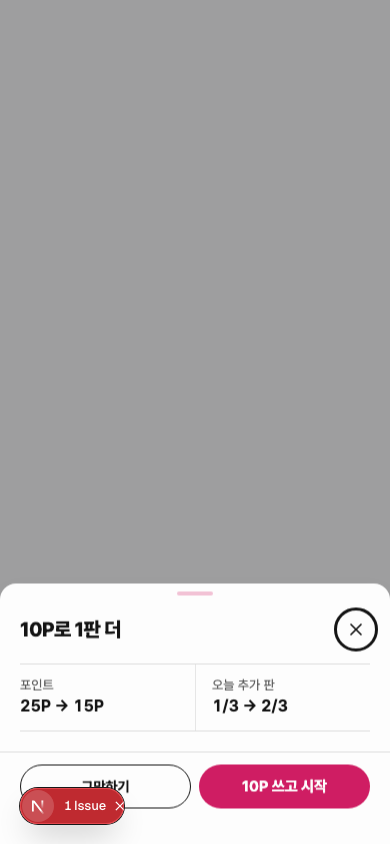
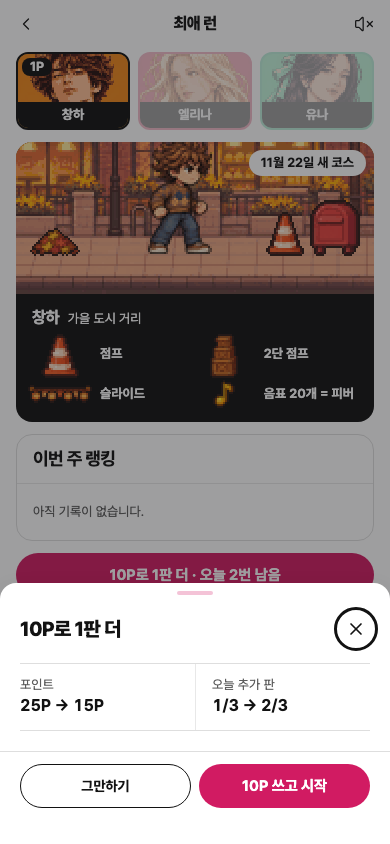
잔액이 부족하면 덕질 미션으로 안내하고 모든 알림 톤의 만료 검증

diff --git a/apps/web/app/chemi/games/run/copy.ts b/apps/web/app/chemi/games/run/copy.ts
@@ -22,7 +22,7 @@ const table: Record<AppLocale, readonly string[]> = {
     "{n}점", "{m}m · 음표 {n} · {c}연속 회피 · 피버 {f}회", "최고 기록 · 이전 {n}점", "이번 주 순위", "{n}위", "{n}계단", "새 칭호", "{n}점 벽 깨기",
     "{name} 친밀 +{n}", "{name} 방 보기", "다음에 뭐 할까?", "다시 하기 · 남은 판 {n}", "{cost}P로 1판 더 · 오늘 {n}번 남음", "오늘 판을 모두 썼어요", "친구에게 도전", "링크를 복사했어요", "케미로",
     "바로 위 {name}까지", "기록 확인 중", "다시 시도", "{cost}P로 1판 더", "포인트", "오늘 추가 판", "그만하기", "{cost}P 쓰고 시작",
-    "포인트가 {n}P 모자라요", "출석하고 포인트 받기", "내일 알려 줘", "내일 메일로 알려 드릴게요", "불러오지 못했습니다.", "도전 기록", "닫기", "{n}초", "지난주 {n}위", "판이 끝났어요", "최고 기록", "{date} 새 코스"],
+    "포인트가 {n}P 모자라요", "덕질 미션에서 모으기", "내일 알려 줘", "내일 메일로 알려 드릴게요", "불러오지 못했습니다.", "도전 기록", "닫기", "{n}초", "지난주 {n}위", "판이 끝났어요", "최고 기록", "{date} 새 코스"],
   en: ["Favorite Run", "Back", "Sound", "Pause", "Changha", "Elina", "Yuna", "Autumn city street",
     "Jump", "Low things", "Double jump", "Tall things · pits", "Slide", "Overhead", "20 notes = Fever", "2× score for 7 s",
     "This week's ranking", "Full ranking", "me", "No records yet.", "{n} ran today", "Start with {name} · {n} runs left", "Sign in to start", "Start 1 trial run",
@@ -31,7 +31,7 @@ const table: Record<AppLocale, readonly string[]> = {
     "{n} pts", "{m} m · {n} notes · {c} dodges in a row · {f} fevers", "New best · was {n} pts", "This week's rank", "#{n}", "{n} places", "New title", "Broke {n} points",
     "{name} affinity +{n}", "See {name}'s room", "What next?", "Run again · {n} left", "1 more run for {cost}P · {n} left today", "You've used today's runs", "Challenge a friend", "Link copied", "Back to Chemi",
     "To pass {name}", "Checking the record", "Try again", "1 more run for {cost}P", "Points", "Extra runs today", "Not now", "Spend {cost}P and start",
-    "You're {n}P short", "Check in for points", "Remind me tomorrow", "We'll email you tomorrow", "Couldn't load.", "Record to beat", "Close", "{n} s", "Last week #{n}", "The run is over", "Best", "New course · {date}"],
+    "You're {n}P short", "Earn points in fan missions", "Remind me tomorrow", "We'll email you tomorrow", "Couldn't load.", "Record to beat", "Close", "{n} s", "Last week #{n}", "The run is over", "Best", "New course · {date}"],
   ja: ["推しラン", "戻る", "サウンド", "一時停止", "チャンハ", "エリナ", "ユナ", "秋の街角",
     "ジャンプ", "低いもの", "2段ジャンプ", "高いもの・穴", "スライド", "頭上", "音符20個 = フィーバー", "7秒間スコア2倍",
     "今週のランキング", "全体順位", "自分", "まだ記録がありません。", "今日{n}人が走りました", "{name}でスタート・残り{n}回", "ログインして始める", "お試し1回を始める",
@@ -40,7 +40,7 @@ const table: Record<AppLocale, readonly string[]> = {
     "{n}点", "{m}m・音符{n}・{c}連続回避・フィーバー{f}回", "自己ベスト・前回{n}点", "今週の順位", "{n}位", "{n}ランク", "新しい称号", "{n}点の壁突破",
     "{name} 親密 +{n}", "{name}の部屋を見る", "次はどうする?", "もう一度・残り{n}回", "{cost}Pでもう1回・今日あと{n}回", "今日の回数を使い切りました", "友だちに挑戦", "リンクをコピーしました", "ケミへ",
     "すぐ上の{name}まで", "記録を確認中", "再試行", "{cost}Pでもう1回", "ポイント", "今日の追加回数", "やめる", "{cost}P使って始める",
-    "{n}P足りません", "出席してポイントをもらう", "明日知らせて", "明日メールでお知らせします", "読み込めませんでした。", "挑戦記録", "閉じる", "{n}秒", "先週{n}位", "ランが終わりました", "ベスト", "{date}の新コース"],
+    "{n}P足りません", "推し活ミッションで貯める", "明日知らせて", "明日メールでお知らせします", "読み込めませんでした。", "挑戦記録", "閉じる", "{n}秒", "先週{n}位", "ランが終わりました", "ベスト", "{date}の新コース"],
   "zh-Hans": ["本命跑酷", "返回", "声音", "暂停", "Changha", "Elina", "Yuna", "秋日街道",
     "跳跃", "矮的障碍", "二段跳", "高的障碍 · 坑", "滑行", "头顶", "20个音符 = 狂热", "7秒内得分2倍",
     "本周排行", "全部排名", "我", "暂无记录。", "今天{n}人跑过", "选{name}开始 · 剩余{n}次", "登录后开始", "开始体验1次",
@@ -49,7 +49,7 @@ const table: Record<AppLocale, readonly string[]> = {
     "{n}分", "{m}米 · 音符{n} · 连续躲避{c} · 狂热{f}次", "最高纪录 · 之前{n}分", "本周名次", "第{n}名", "{n}名", "新称号", "突破{n}分",
     "{name} 亲密 +{n}", "看{name}的房间", "接下来?", "再来一次 · 剩余{n}次", "花{cost}P再跑1次 · 今天还剩{n}次", "今天的次数已用完", "挑战好友", "已复制链接", "回到Chemi",
     "距上一名{name}", "正在确认记录", "重试", "花{cost}P再跑1次", "积分", "今日追加次数", "算了", "花{cost}P开始",
-    "还差{n}P", "签到领积分", "明天提醒我", "明天会发邮件提醒", "加载失败。", "挑战纪录", "关闭", "{n}秒", "上周第{n}名", "本局已结束", "最高", "{date} 新路线"],
+    "还差{n}P", "通过应援任务攒积分", "明天提醒我", "明天会发邮件提醒", "加载失败。", "挑战纪录", "关闭", "{n}秒", "上周第{n}名", "本局已结束", "最高", "{date} 新路线"],
   "zh-Hant": ["本命跑酷", "返回", "聲音", "暫停", "Changha", "Elina", "Yuna", "秋日街道",
     "跳躍", "矮的障礙", "二段跳", "高的障礙 · 坑", "滑行", "頭頂", "20個音符 = 狂熱", "7秒內得分2倍",
     "本週排行", "全部排名", "我", "暫無紀錄。", "今天{n}人跑過", "選{name}開始 · 剩餘{n}次", "登入後開始", "開始體驗1次",
@@ -58,7 +58,7 @@ const table: Record<AppLocale, readonly string[]> = {
     "{n}分", "{m}公尺 · 音符{n} · 連續閃避{c} · 狂熱{f}次", "最高紀錄 · 之前{n}分", "本週名次", "第{n}名", "{n}名", "新稱號", "突破{n}分",
     "{name} 親密 +{n}", "看{name}的房間", "接下來?", "再來一次 · 剩餘{n}次", "花{cost}P再跑1次 · 今天還剩{n}次", "今天的次數已用完", "挑戰好友", "已複製連結", "回到Chemi",
     "距上一名{name}", "正在確認紀錄", "重試", "花{cost}P再跑1次", "點數", "今日追加次數", "算了", "花{cost}P開始",
-    "還差{n}P", "簽到領點數", "明天提醒我", "明天會寄信提醒", "載入失敗。", "挑戰紀錄", "關閉", "{n}秒", "上週第{n}名", "本局已結束", "最高", "{date} 新路線"],
+    "還差{n}P", "透過應援任務累積點數", "明天提醒我", "明天會寄信提醒", "載入失敗。", "挑戰紀錄", "關閉", "{n}秒", "上週第{n}名", "本局已結束", "最高", "{date} 新路線"],
   es: ["Carrera con tu favorito", "Atrás", "Sonido", "Pausa", "Changha", "Elina", "Yuna", "Calle de otoño",
     "Saltar", "Cosas bajas", "Doble salto", "Cosas altas · hoyos", "Deslizar", "Por encima", "20 notas = Fiebre", "Puntos ×2 durante 7 s",
     "Ranking de la semana", "Ranking completo", "yo", "Aún no hay marcas.", "{n} corrieron hoy", "Empezar con {name} · quedan {n}", "Inicia sesión para empezar", "Empezar 1 prueba",
@@ -67,7 +67,7 @@ const table: Record<AppLocale, readonly string[]> = {
     "{n} pts", "{m} m · {n} notas · {c} esquivas seguidas · {f} fiebres", "Mejor marca · antes {n} pts", "Puesto semanal", "N.º {n}", "{n} puestos", "Título nuevo", "Superaste {n} puntos",
     "Afinidad con {name} +{n}", "Ver el cuarto de {name}", "¿Y ahora?", "Otra carrera · quedan {n}", "1 carrera más por {cost}P · quedan {n} hoy", "Ya usaste las carreras de hoy", "Reta a un amigo", "Enlace copiado", "Volver a Chemi",
     "Para pasar a {name}", "Comprobando la marca", "Reintentar", "1 carrera más por {cost}P", "Puntos", "Carreras extra de hoy", "Ahora no", "Gastar {cost}P y empezar",
-    "Te faltan {n}P", "Gana puntos con la asistencia", "Avísame mañana", "Te escribiremos mañana", "No se pudo cargar.", "Marca a batir", "Cerrar", "{n} s", "Semana pasada n.º {n}", "La carrera terminó", "Mejor", "Recorrido nuevo · {date}"],
+    "Te faltan {n}P", "Gana puntos con misiones de fans", "Avísame mañana", "Te escribiremos mañana", "No se pudo cargar.", "Marca a batir", "Cerrar", "{n} s", "Semana pasada n.º {n}", "La carrera terminó", "Mejor", "Recorrido nuevo · {date}"],
   id: ["Lari Bareng Idola", "Kembali", "Suara", "Jeda", "Changha", "Elina", "Yuna", "Jalan kota musim gugur",
     "Lompat", "Yang rendah", "Lompat ganda", "Yang tinggi · lubang", "Meluncur", "Di atas kepala", "20 not = Fever", "Skor 2× selama 7 dtk",
     "Peringkat minggu ini", "Semua peringkat", "saya", "Belum ada rekor.", "{n} orang berlari hari ini", "Mulai dengan {name} · sisa {n}", "Masuk untuk mulai", "Mulai 1 kali coba",
@@ -76,7 +76,7 @@ const table: Record<AppLocale, readonly string[]> = {
     "{n} poin", "{m} m · {n} not · {c} menghindar beruntun · {f} fever", "Rekor baru · sebelumnya {n} poin", "Peringkat minggu ini", "Ke-{n}", "{n} tingkat", "Gelar baru", "Tembus {n} poin",
     "Keakraban {name} +{n}", "Lihat kamar {name}", "Selanjutnya?", "Lari lagi · sisa {n}", "1 lari lagi {cost}P · sisa {n} hari ini", "Jatah hari ini sudah habis", "Tantang teman", "Tautan disalin", "Ke Chemi",
     "Untuk melewati {name}", "Memeriksa rekor", "Coba lagi", "1 lari lagi {cost}P", "Poin", "Lari tambahan hari ini", "Nanti saja", "Pakai {cost}P dan mulai",
-    "Kurang {n}P", "Absen untuk dapat poin", "Ingatkan besok", "Besok kami kirim email", "Gagal memuat.", "Rekor tantangan", "Tutup", "{n} dtk", "Minggu lalu ke-{n}", "Lari sudah berakhir", "Terbaik", "Rute baru · {date}"],
+    "Kurang {n}P", "Kumpulkan poin lewat misi penggemar", "Ingatkan besok", "Besok kami kirim email", "Gagal memuat.", "Rekor tantangan", "Tutup", "{n} dtk", "Minggu lalu ke-{n}", "Lari sudah berakhir", "Terbaik", "Rute baru · {date}"],
   vi: ["Chạy cùng thần tượng", "Quay lại", "Âm thanh", "Tạm dừng", "Changha", "Elina", "Yuna", "Phố mùa thu",
     "Nhảy", "Vật thấp", "Nhảy đôi", "Vật cao · hố", "Trượt", "Trên đầu", "20 nốt = Fever", "Điểm ×2 trong 7 giây",
     "Xếp hạng tuần này", "Toàn bộ xếp hạng", "tôi", "Chưa có kỷ lục.", "Hôm nay {n} người đã chạy", "Bắt đầu với {name} · còn {n} lượt", "Đăng nhập để bắt đầu", "Chơi thử 1 lượt",
@@ -85,7 +85,7 @@ const table: Record<AppLocale, readonly string[]> = {
     "{n} điểm", "{m} m · {n} nốt · né liên tiếp {c} · fever {f} lần", "Kỷ lục mới · trước đó {n} điểm", "Hạng tuần này", "Hạng {n}", "{n} bậc", "Danh hiệu mới", "Vượt {n} điểm",
     "Thân thiết với {name} +{n}", "Xem phòng của {name}", "Tiếp theo?", "Chạy lại · còn {n} lượt", "Thêm 1 lượt {cost}P · hôm nay còn {n}", "Bạn đã dùng hết lượt hôm nay", "Thách đấu bạn bè", "Đã sao chép liên kết", "Về Chemi",
     "Để vượt {name}", "Đang kiểm tra kỷ lục", "Thử lại", "Thêm 1 lượt {cost}P", "Điểm", "Lượt thêm hôm nay", "Để sau", "Dùng {cost}P và bắt đầu",
-    "Thiếu {n}P", "Điểm danh để nhận điểm", "Nhắc tôi ngày mai", "Ngày mai chúng tôi sẽ gửi email", "Không tải được.", "Kỷ lục thách đấu", "Đóng", "{n} giây", "Tuần trước hạng {n}", "Lượt chạy đã kết thúc", "Cao nhất", "Đường chạy mới · {date}"],
+    "Thiếu {n}P", "Tích điểm qua nhiệm vụ người hâm mộ", "Nhắc tôi ngày mai", "Ngày mai chúng tôi sẽ gửi email", "Không tải được.", "Kỷ lục thách đấu", "Đóng", "{n} giây", "Tuần trước hạng {n}", "Lượt chạy đã kết thúc", "Cao nhất", "Đường chạy mới · {date}"],
   th: ["วิ่งกับเมน", "กลับ", "เสียง", "หยุดชั่วคราว", "ชางฮา", "เอลินา", "ยูนา", "ถนนเมืองฤดูใบไม้ร่วง",
     "กระโดด", "ของเตี้ย", "กระโดดสองชั้น", "ของสูง · หลุม", "สไลด์", "เหนือหัว", "โน้ต 20 ตัว = ฟีเวอร์", "คะแนน 2 เท่า 7 วินาที",
     "อันดับสัปดาห์นี้", "อันดับทั้งหมด", "ฉัน", "ยังไม่มีสถิติ", "วันนี้วิ่งแล้ว {n} คน", "เริ่มกับ{name} · เหลือ {n} รอบ", "เข้าสู่ระบบเพื่อเริ่ม", "เริ่มทดลอง 1 รอบ",
@@ -94,7 +94,7 @@ const table: Record<AppLocale, readonly string[]> = {
     "{n} คะแนน", "{m} ม. · โน้ต {n} · หลบติดกัน {c} · ฟีเวอร์ {f} ครั้ง", "สถิติใหม่ · เดิม {n} คะแนน", "อันดับสัปดาห์นี้", "อันดับ {n}", "{n} อันดับ", "ฉายาใหม่", "ทะลุ {n} คะแนน",
     "ความสนิทกับ{name} +{n}", "ดูห้องของ{name}", "ต่อไปทำอะไรดี?", "วิ่งอีกครั้ง · เหลือ {n} รอบ", "อีก 1 รอบ {cost}P · วันนี้เหลือ {n}", "ใช้รอบของวันนี้หมดแล้ว", "ท้าเพื่อน", "คัดลอกลิงก์แล้ว", "กลับไป Chemi",
     "ตามทัน{name}อีก", "กำลังตรวจสถิติ", "ลองอีกครั้ง", "อีก 1 รอบ {cost}P", "แต้ม", "รอบเพิ่มวันนี้", "ไว้ก่อน", "ใช้ {cost}P แล้วเริ่ม",
-    "ขาดอีก {n}P", "เช็กอินรับแต้ม", "เตือนฉันพรุ่งนี้", "พรุ่งนี้เราจะส่งอีเมลแจ้ง", "โหลดไม่สำเร็จ", "สถิติที่ท้า", "ปิด", "{n} วินาที", "สัปดาห์ก่อนอันดับ {n}", "รอบนี้จบแล้ว", "สูงสุด", "เส้นทางใหม่ · {date}"],
+    "ขาดอีก {n}P", "สะสมแต้มจากภารกิจแฟนคลับ", "เตือนฉันพรุ่งนี้", "พรุ่งนี้เราจะส่งอีเมลแจ้ง", "โหลดไม่สำเร็จ", "สถิติที่ท้า", "ปิด", "{n} วินาที", "สัปดาห์ก่อนอันดับ {n}", "รอบนี้จบแล้ว", "สูงสุด", "เส้นทางใหม่ · {date}"],
   pt: ["Corrida com seu favorito", "Voltar", "Som", "Pausar", "Changha", "Elina", "Yuna", "Rua de outono",
     "Pular", "Coisas baixas", "Pulo duplo", "Coisas altas · buracos", "Deslizar", "Acima da cabeça", "20 notas = Febre", "Pontos ×2 por 7 s",
     "Ranking da semana", "Ranking completo", "eu", "Ainda não há recordes.", "{n} correram hoje", "Começar com {name} · restam {n}", "Entre para começar", "Começar 1 teste",
@@ -103,7 +103,7 @@ const table: Record<AppLocale, readonly string[]> = {
     "{n} pts", "{m} m · {n} notas · {c} desvios seguidos · {f} febres", "Novo recorde · antes {n} pts", "Posição na semana", "{n}º", "{n} posições", "Novo título", "Passou de {n} pontos",
     "Afinidade com {name} +{n}", "Ver o quarto de {name}", "E agora?", "Correr de novo · restam {n}", "Mais 1 corrida por {cost}P · restam {n} hoje", "Você usou as corridas de hoje", "Desafiar um amigo", "Link copiado", "Voltar ao Chemi",
     "Para passar {name}", "Conferindo o recorde", "Tentar de novo", "Mais 1 corrida por {cost}P", "Pontos", "Corridas extras hoje", "Agora não", "Gastar {cost}P e começar",
-    "Faltam {n}P", "Ganhe pontos com a presença", "Avise-me amanhã", "Enviaremos um e-mail amanhã", "Não foi possível carregar.", "Recorde a bater", "Fechar", "{n} s", "Semana passada {n}º", "A corrida acabou", "Melhor", "Percurso novo · {date}"],
+    "Faltam {n}P", "Ganhe pontos nas missões de fã", "Avise-me amanhã", "Enviaremos um e-mail amanhã", "Não foi possível carregar.", "Recorde a bater", "Fechar", "{n} s", "Semana passada {n}º", "A corrida acabou", "Melhor", "Percurso novo · {date}"],
   fr: ["Course avec ton favori", "Retour", "Son", "Pause", "Changha", "Elina", "Yuna", "Rue d'automne",
     "Sauter", "Obstacles bas", "Double saut", "Obstacles hauts · trous", "Glisser", "Au-dessus", "20 notes = Fièvre", "Score ×2 pendant 7 s",
     "Classement de la semaine", "Classement complet", "moi", "Aucun record pour l'instant.", "{n} ont couru aujourd'hui", "Commencer avec {name} · {n} restantes", "Se connecter pour commencer", "Lancer 1 essai",
@@ -112,7 +112,7 @@ const table: Record<AppLocale, readonly string[]> = {
     "{n} pts", "{m} m · {n} notes · {c} esquives d'affilée · {f} fièvres", "Nouveau record · avant {n} pts", "Rang de la semaine", "{n}e", "{n} places", "Nouveau titre", "{n} points dépassés",
     "Affinité avec {name} +{n}", "Voir la chambre de {name}", "Et maintenant ?", "Recourir · {n} restantes", "1 course de plus pour {cost}P · {n} restantes aujourd'hui", "Tu as utilisé les courses du jour", "Défier un ami", "Lien copié", "Retour à Chemi",
     "Pour dépasser {name}", "Vérification du record", "Réessayer", "1 course de plus pour {cost}P", "Points", "Courses bonus du jour", "Pas maintenant", "Dépenser {cost}P et commencer",
-    "Il manque {n}P", "Gagner des points en pointant", "Me prévenir demain", "Nous t'écrirons demain", "Chargement impossible.", "Record à battre", "Fermer", "{n} s", "Semaine dernière {n}e", "La course est terminée", "Record", "Nouveau parcours · {date}"],
+    "Il manque {n}P", "Gagner des points avec les missions de fan", "Me prévenir demain", "Nous t'écrirons demain", "Chargement impossible.", "Record à battre", "Fermer", "{n} s", "Semaine dernière {n}e", "La course est terminée", "Record", "Nouveau parcours · {date}"],
   ru: ["Забег с любимцем", "Назад", "Звук", "Пауза", "Чанха", "Элина", "Юна", "Осенняя улица",
     "Прыжок", "Низкие преграды", "Двойной прыжок", "Высокие преграды · ямы", "Подкат", "Над головой", "20 нот = Фивер", "Очки ×2 на 7 с",
     "Рейтинг недели", "Весь рейтинг", "я", "Рекордов пока нет.", "Сегодня бежали: {n}", "Начать с {name} · осталось {n}", "Войти и начать", "Начать 1 пробный забег",
@@ -121,7 +121,7 @@ const table: Record<AppLocale, readonly string[]> = {
     "{n} очк.", "{m} м · нот {n} · уклонений подряд {c} · фиверов {f}", "Новый рекорд · было {n} очк.", "Место за неделю", "{n}-е", "{n} мест", "Новый титул", "Больше {n} очков",
     "Близость с {name} +{n}", "Комната {name}", "Что дальше?", "Ещё забег · осталось {n}", "Ещё 1 забег за {cost}P · сегодня осталось {n}", "Сегодняшние забеги закончились", "Бросить вызов другу", "Ссылка скопирована", "В Chemi",
     "Чтобы обойти {name}", "Проверяем рекорд", "Повторить", "Ещё 1 забег за {cost}P", "Очки", "Доп. забеги сегодня", "Не сейчас", "Потратить {cost}P и начать",
-    "Не хватает {n}P", "Отметиться и получить очки", "Напомнить завтра", "Завтра пришлём письмо", "Не удалось загрузить.", "Рекорд для вызова", "Закрыть", "{n} с", "На прошлой неделе {n}-е", "Забег окончен", "Рекорд", "Новая трасса · {date}"],
+    "Не хватает {n}P", "Заработать очки в фан-заданиях", "Напомнить завтра", "Завтра пришлём письмо", "Не удалось загрузить.", "Рекорд для вызова", "Закрыть", "{n} с", "На прошлой неделе {n}-е", "Забег окончен", "Рекорд", "Новая трасса · {date}"],
 };
 
 export function getRunCopy(locale: AppLocale, cost?: number): RunCopy {

diff --git a/apps/web/components/fan-ui/fan-stage1.test.tsx b/apps/web/components/fan-ui/fan-stage1.test.tsx
@@ -254,11 +254,11 @@ describe("FanToast", () => {
     await waitFor(() => expect(viewport.textContent).not.toContain("키보드 출석 완료"));
   });
 
-  it("expires a reward toast even when window blur pauses library timers", async () => {
+  it.each(["neutral", "success", "error"] as const)("expires an actionless %s toast even when window blur pauses library timers", async tone => {
     render(<FanToastProvider />);
     await waitFor(() => expect(document.querySelector("[data-fan-toast-viewport]")).not.toBeNull());
     fireEvent.blur(window);
-    act(() => { showFanToast({ title: "출석 완료", tone: "success", duration: 40 }); });
+    act(() => { showFanToast({ title: "출석 완료", tone, duration: 100 }); });
     await waitFor(() => expect(document.querySelector("[data-fan-toast-viewport]")?.textContent).toContain("출석 완료"));
     await waitFor(() => expect(document.querySelector("[data-fan-toast-viewport]")?.textContent).not.toContain("출석 완료"));
     fireEvent.focus(window);

diff --git a/apps/web/features/chemi/ui/extra-play-dialog.tsx b/apps/web/features/chemi/ui/extra-play-dialog.tsx
@@ -30,7 +30,7 @@ export function ExtraPlayDialog({ open, onOpenChange, onConfirm, busy, locale, p
       </dl>}
       {points != null && points < cost && <p className={styles.short}>
         <FanText role="meta">{fill(copy.short, { n: cost - points })}</FanText>
-        <FanSectionLink href={`/my/wallet?view=attendance&locale=${locale}`}>{copy.earn}</FanSectionLink>
+        <FanSectionLink href={`/benefits?locale=${locale}`}>{copy.earn}</FanSectionLink>
       </p>}
     </FanDialog>;
 }
